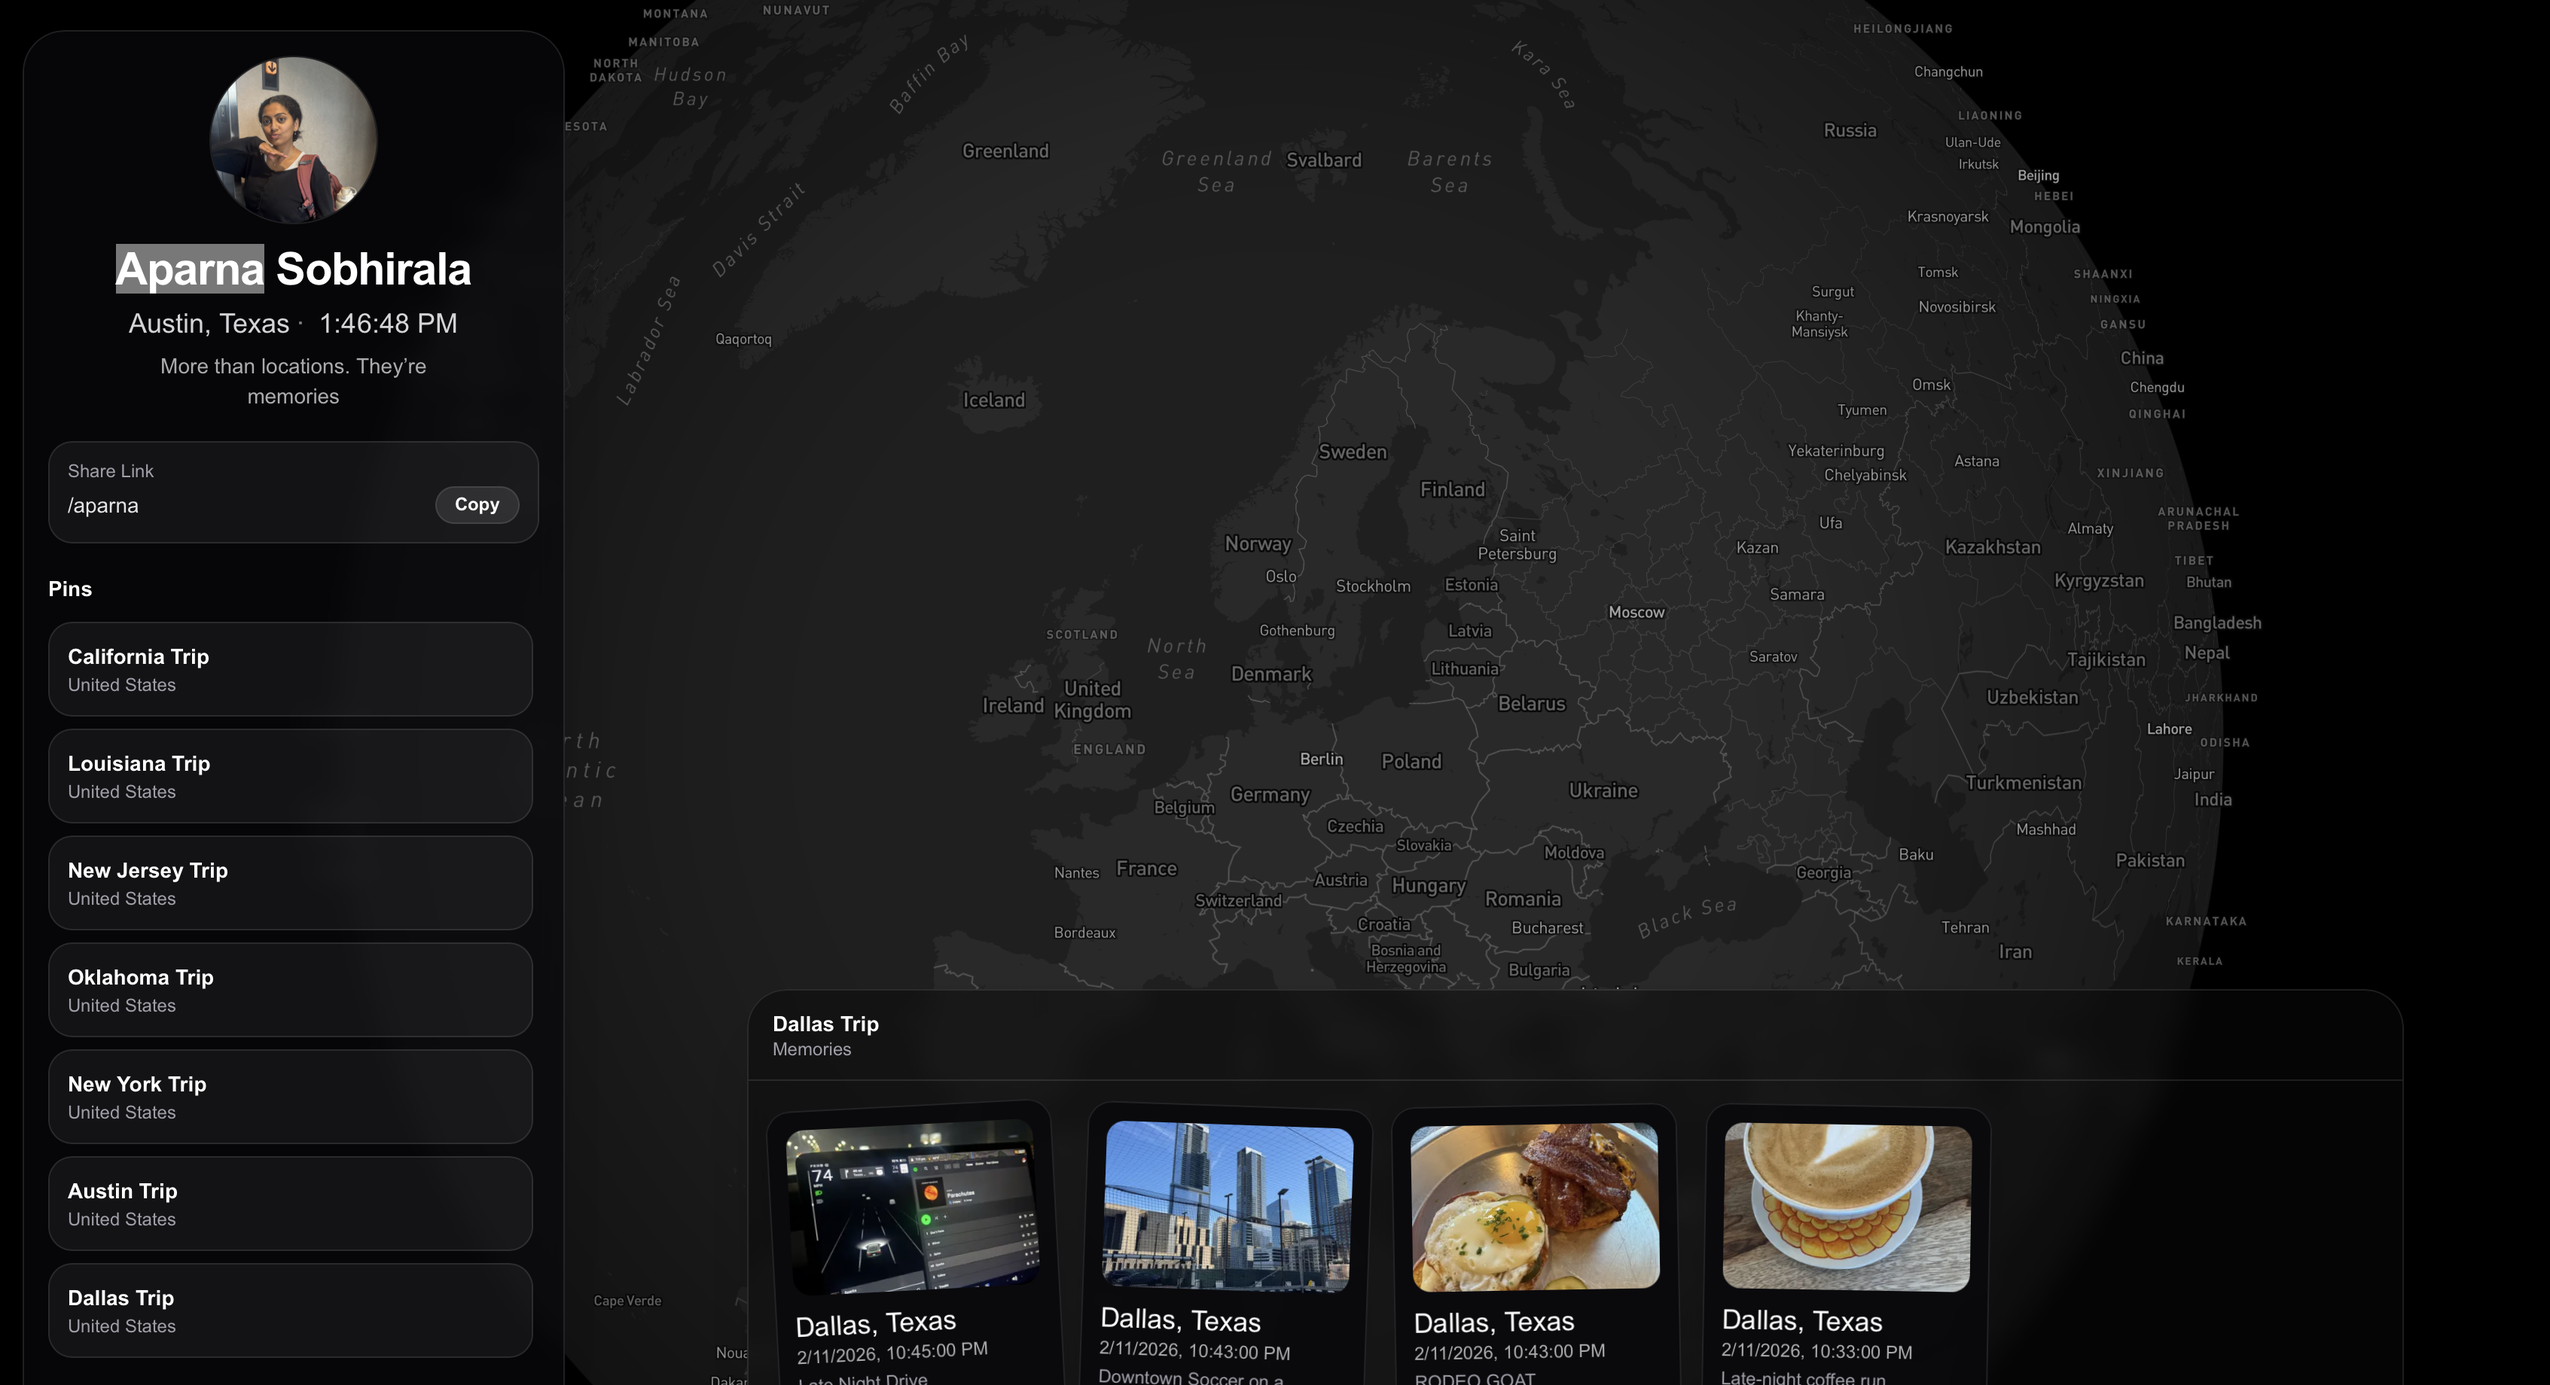
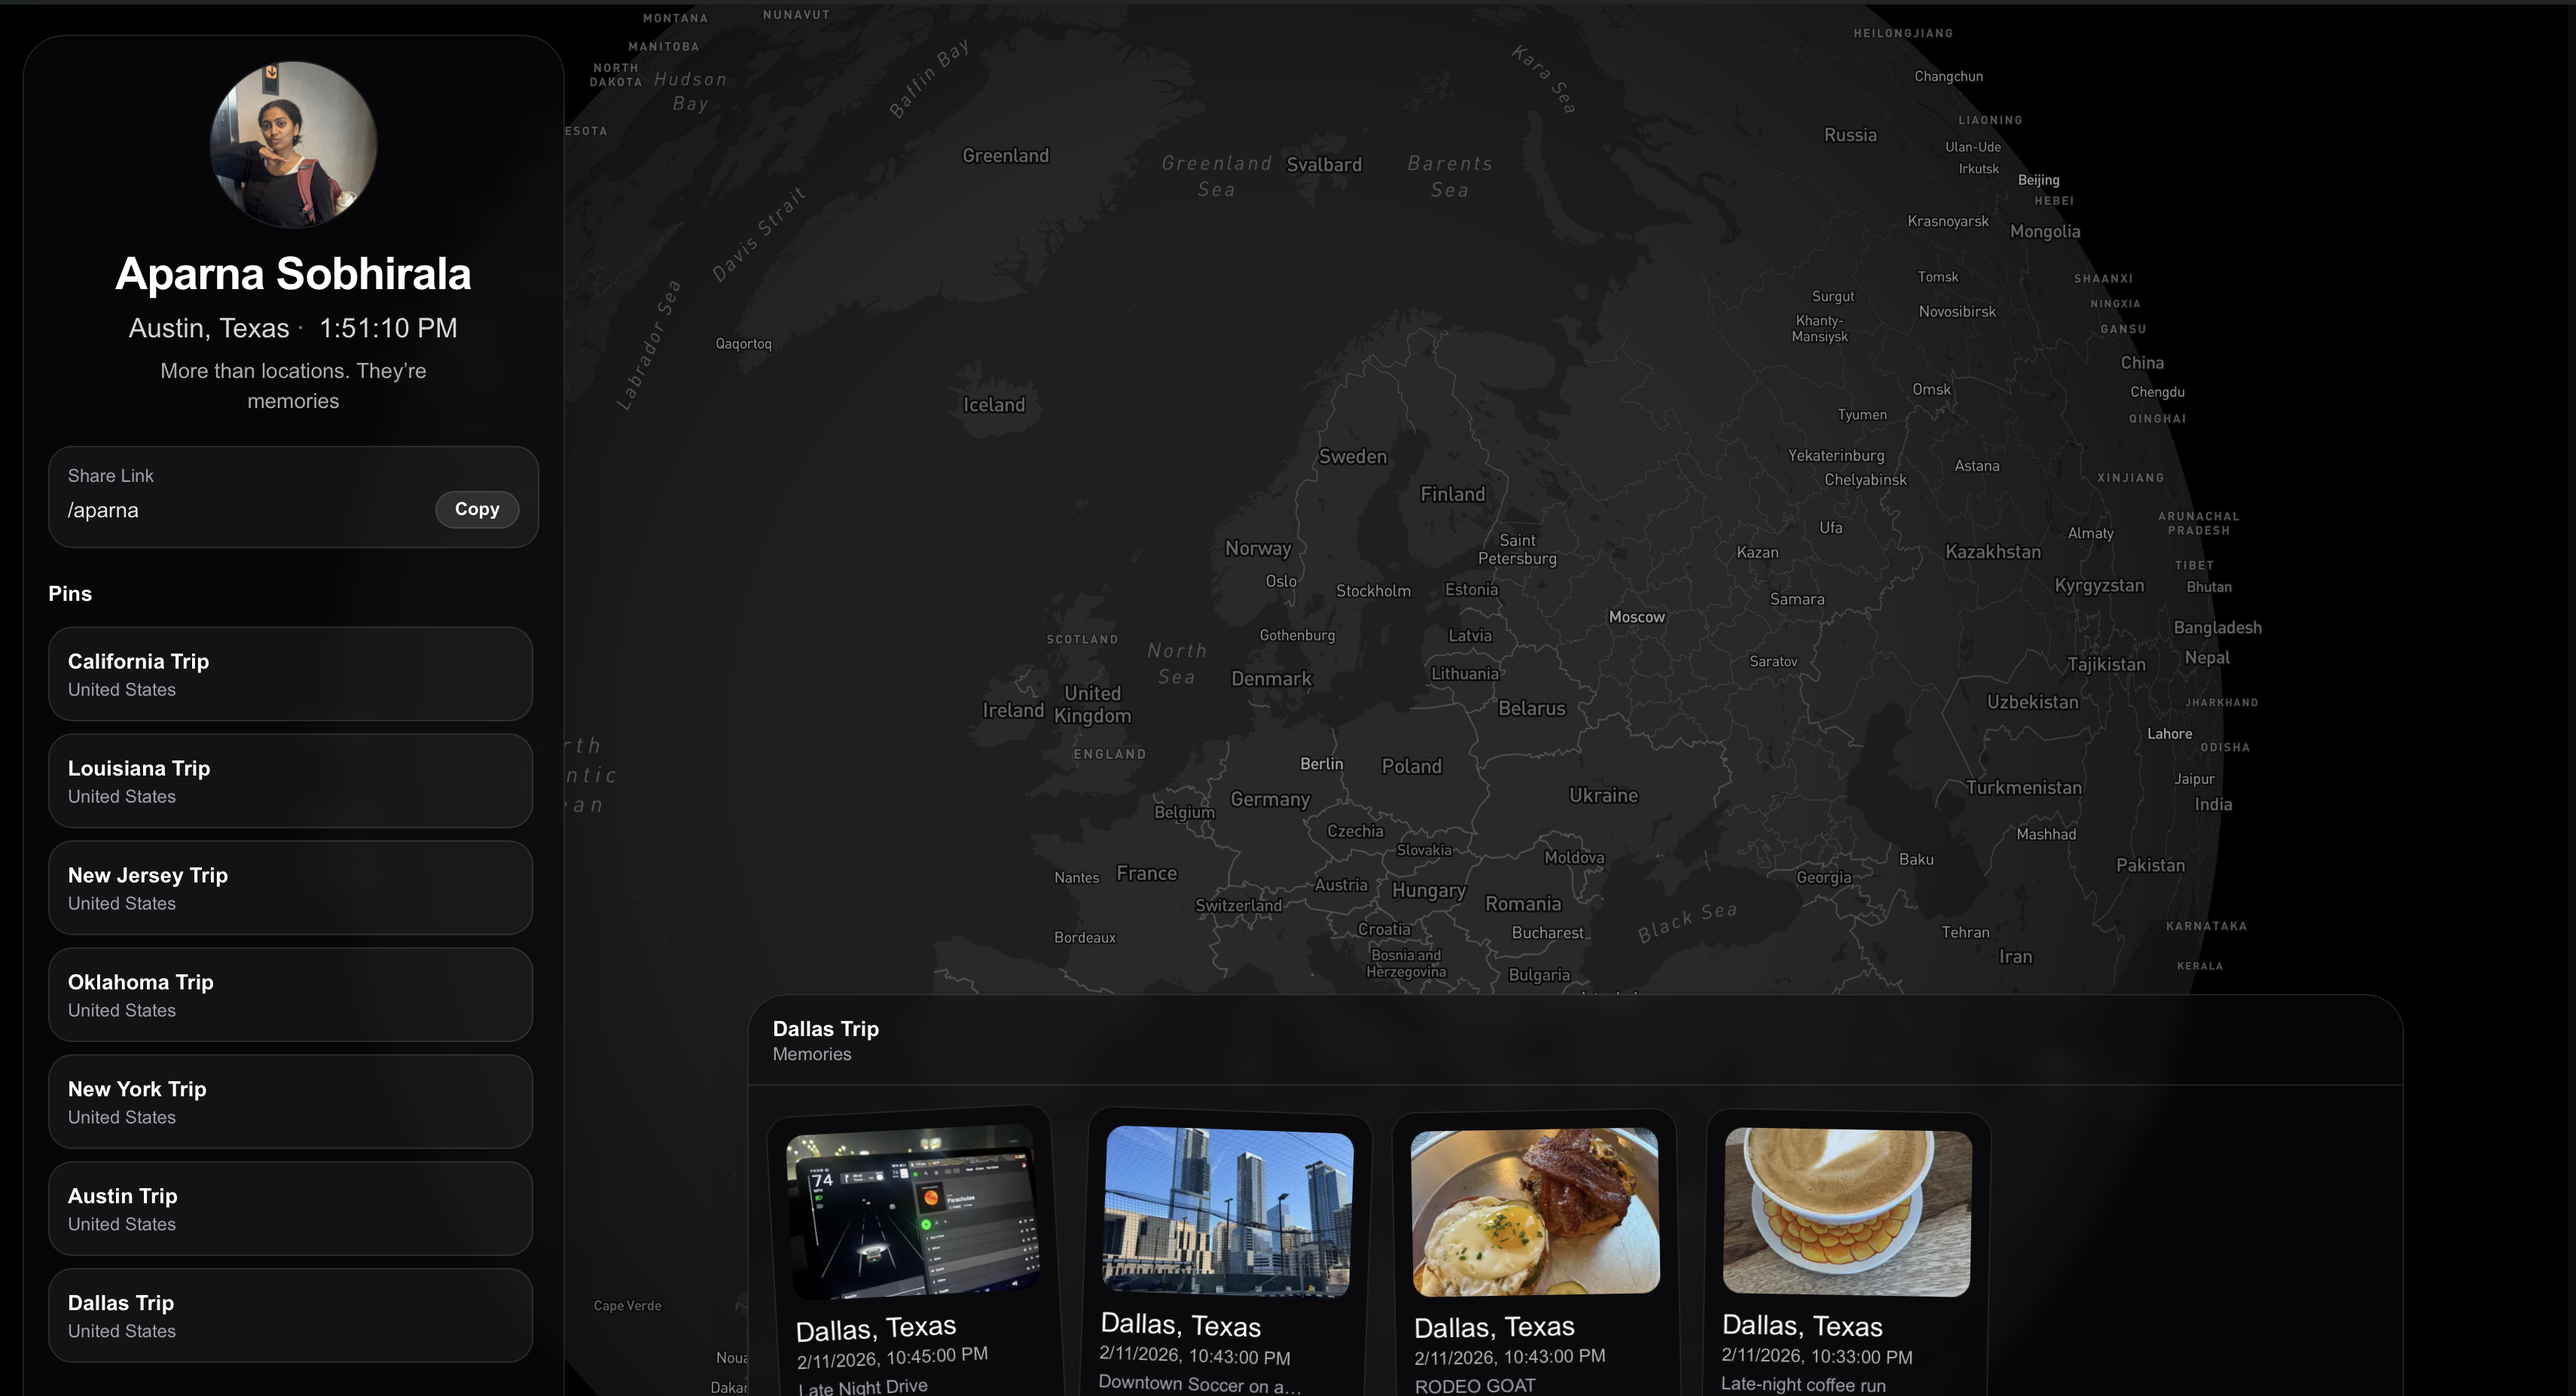
updated projects section

diff --git a/app/projects/page.tsx b/app/projects/page.tsx
@@ -13,6 +13,7 @@ type Project = {
   tags: string[];
   image?: string;
   href?: string;
+  codeHref?: string;
   featured?: boolean;
 };
 
@@ -25,6 +26,8 @@ const projects: Project[] = [
       "A full-stack application that lets you create personalized share links showcasing all the places you've visited. Interactive map visualization powered by Mapbox displays your travel locations, while PostgreSQL stores your travel data securely. Upload and manage travel memories with AWS S3 bucket integration for seamless image hosting. Share your adventures with a unique, custom URL.",
     tags: ["Next.js", "TypeScript", "Mapbox", "PostgreSQL", "AWS S3"],
     image: "/worldmap-preview.png",
+    href: "https://world-map-peach.vercel.app",
+    codeHref: "https://github.com/jomilojuokuwobi72-oss/WorldMap",
     featured: true,
   },
   {
@@ -127,18 +130,16 @@ export default function ProjectsPage() {
                     Live
                   </a>
                 )}
-                <a
-                  href="#"
-                  className="underline underline-offset-4 hover:opacity-75 transition"
-                >
-                  Code
-                </a>
-                <a
-                  href="#"
-                  className="underline underline-offset-4 hover:opacity-75 transition"
-                >
-                  Case study
-                </a>
+                {featuredProject.codeHref && (
+                  <a
+                    href={featuredProject.codeHref}
+                    target="_blank"
+                    rel="noreferrer"
+                    className="underline underline-offset-4 hover:opacity-75 transition"
+                  >
+                    Code
+                  </a>
+                )}
               </div>
             </div>
           </section>
